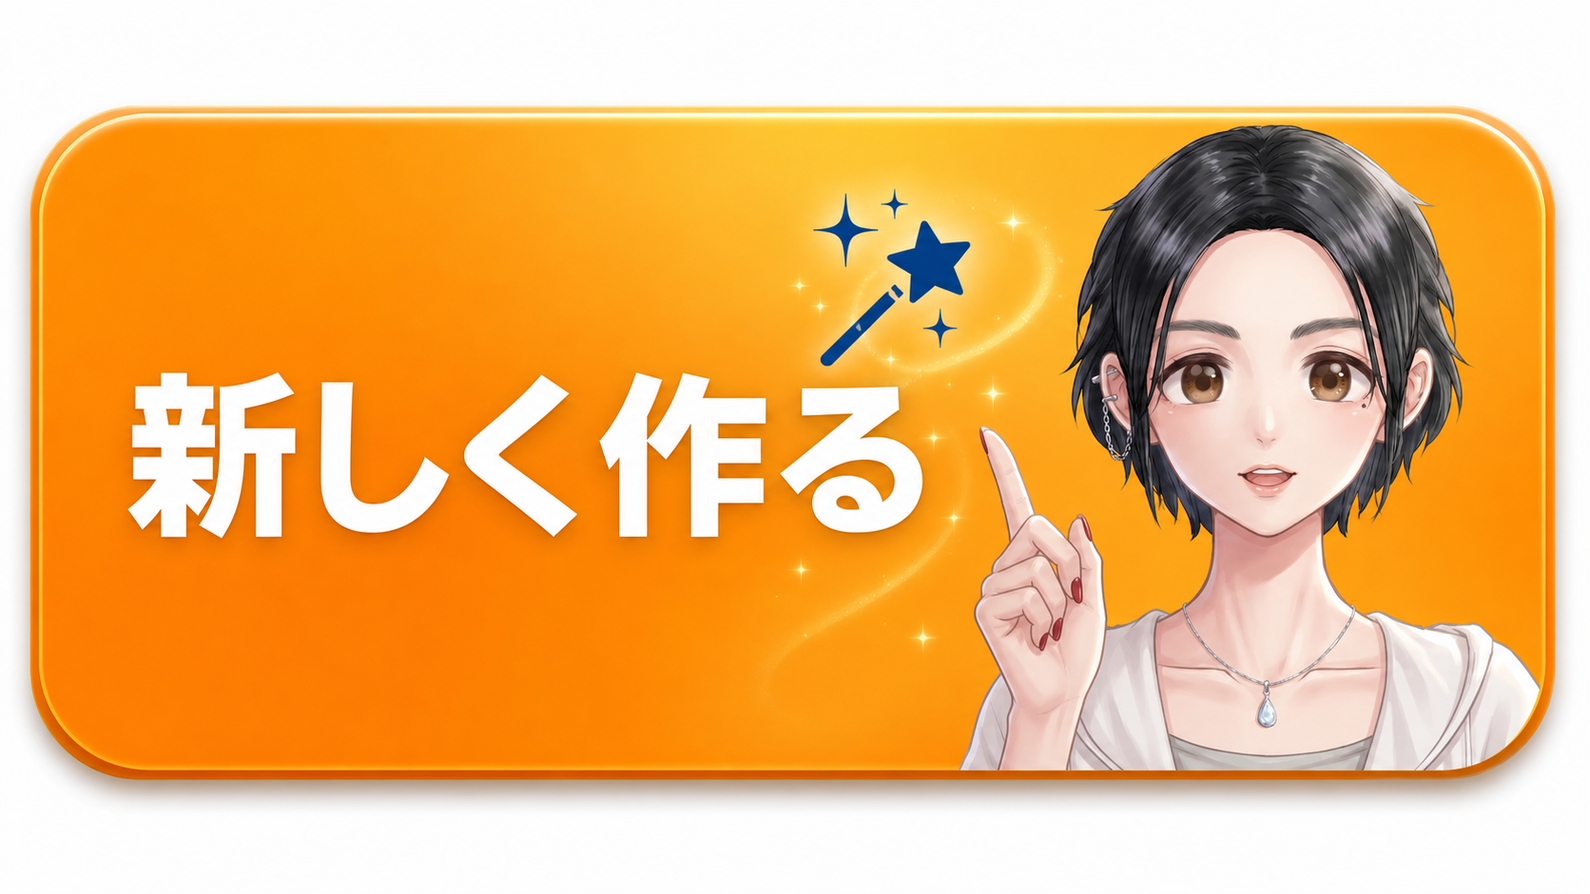
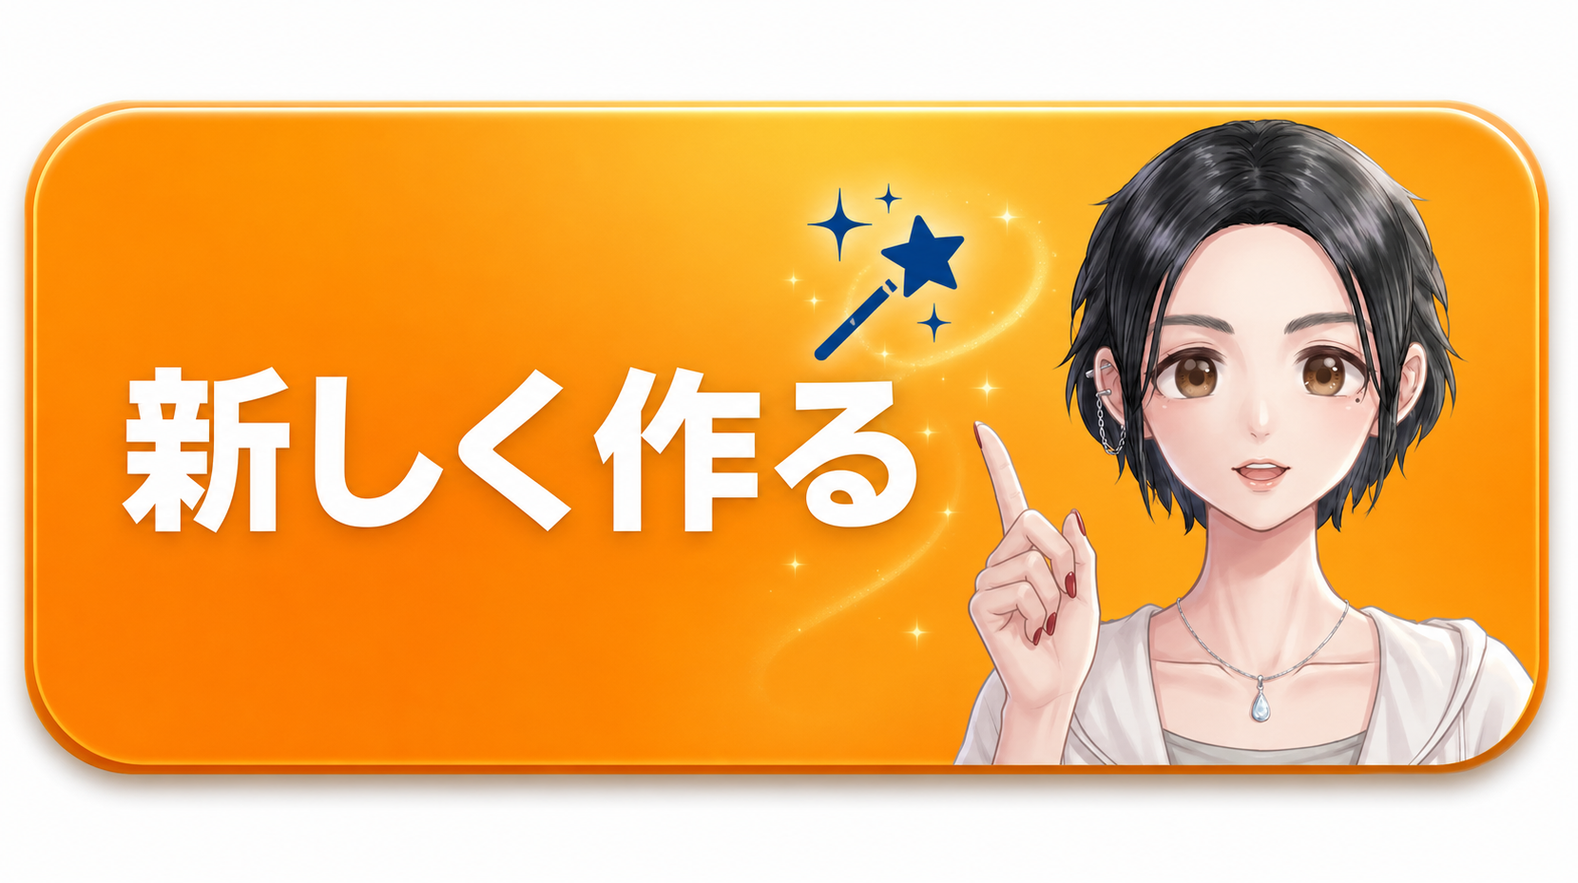
feat: スライドダッシュボードに改称。生成実況ヒーロー・プレースホルダー・バナー横並び・レスポンシブ改善・Codexライフサイクル修正

diff --git a/skills/tekion-slide-generator-v6/scripts/review_deck.py b/skills/tekion-slide-generator-v6/scripts/review_deck.py
@@ -31,7 +31,7 @@ import sys
 import threading
 
 sys.path.insert(0, os.path.dirname(os.path.abspath(__file__)))
-from manifest_utils import load_manifest, save_manifest, update_entry
+from manifest_utils import load_manifest, read_session_status, save_manifest, update_entry
 
 PAGE_TEMPLATE = """<!DOCTYPE html>
 <html lang="ja">
@@ -286,11 +286,51 @@ PAGE_TEMPLATE = """<!DOCTYPE html>
   footer.sites a:hover { color: var(--blue); text-decoration: underline; }
   footer.sites .sep { color: #c4ccd6; }
 
-  /* Ryoko バナーボタン（スタート画面） */
-  .choices.banner { grid-template-columns: 1fr; gap: 18px; max-width: 640px; margin: 0 auto; }
+  /* ステージ実況ヒーロー */
+  .stage-hero {
+    display: none; align-items: center; gap: 16px;
+    max-width: 720px; margin: 20px auto 0; padding: 20px 26px;
+    background: var(--paper); border: 1.5px solid #c7d9f5; border-radius: 14px;
+    box-shadow: 0 4px 16px #104f9e14;
+  }
+  .stage-hero.show { display: flex; }
+  .stage-hero .pulse {
+    width: 44px; height: 44px; border-radius: 50%; flex: 0 0 auto;
+    background: radial-gradient(circle at 35% 35%, #3d7fd9, var(--blue));
+    animation: heartbeat 1.6s ease-in-out infinite;
+  }
+  .stage-hero .stxt { display: flex; flex-direction: column; gap: 3px; }
+  .stage-hero .stitle { font-size: 16px; font-weight: 700; color: var(--blue); }
+  .stage-hero .sdetail { font-size: 12.5px; color: var(--sub); }
+  .stage-hero .sdots::after { content: ""; animation: dots 1.5s steps(4) infinite; }
+  @keyframes heartbeat { 0%,100% { transform: scale(1); opacity: 1; }
+                         50% { transform: scale(1.18); opacity: .75; } }
+  @keyframes dots { 0% { content: ""; } 25% { content: "."; } 50% { content: ".."; } 75% { content: "..."; } }
+
+  /* 生成待ちプレースホルダーカード */
+  .ph-frame { position: relative; aspect-ratio: 16 / 9; border-radius: 6px;
+              border: 1.5px dashed #c3cede; overflow: hidden;
+              background: linear-gradient(110deg, #eef2f8 35%, #f8fafd 50%, #eef2f8 65%);
+              background-size: 220% 100%; animation: shimmer 1.8s linear infinite; }
+  @keyframes shimmer { to { background-position-x: -220%; } }
+  .ph-frame .ph-label { position: absolute; inset: 0; display: flex; flex-direction: column;
+                        align-items: center; justify-content: center; gap: 8px;
+                        color: #9aa8bb; font-size: 13px; font-weight: 600; }
+  .ph-frame .ph-num { font-size: 34px; font-weight: 200; color: #c3cede; }
+  .proof.placeholder { border-style: dashed; box-shadow: none; }
+  .proof.placeholder .state { color: #9aa8bb; }
+  .rail .ph-thumb { aspect-ratio: 16 / 9; border-radius: 4px; border: 1.5px dashed #c3cede;
+                    background: #eef2f8; }
+  @media (prefers-reduced-motion: reduce) {
+    .ph-frame, .stage-hero .pulse { animation: none; }
+  }
+
+  /* Ryoko バナーボタン（スタート画面・横並び） */
+  .choices.banner { grid-template-columns: 1fr 1fr; gap: 20px; max-width: 900px; margin: 0 auto; }
+  @media (max-width: 760px) { .choices.banner { grid-template-columns: 1fr; } }
   .banner-btn { display: block; border: 0; padding: 0; background: none; cursor: pointer;
-                border-radius: 16px; overflow: hidden; width: 100%;
-                box-shadow: 0 4px 14px #0f254622; transition: transform .15s, box-shadow .15s; }
+                border-radius: 18px; overflow: hidden; width: 100%; line-height: 0;
+                box-shadow: 0 6px 18px #0f254626; transition: transform .15s, box-shadow .15s; }
   .banner-btn img { display: block; width: 100%; height: auto; }
   .banner-btn:hover { transform: translateY(-3px); box-shadow: 0 10px 28px #0f254633; }
   .banner-btn:active { transform: translateY(0); }
@@ -322,6 +362,15 @@ PAGE_TEMPLATE = """<!DOCTYPE html>
     article.proof:nth-child(n+4) { animation-delay: .15s; }
     @keyframes rise { from { opacity: 0; transform: translateY(8px); } }
   }
+  @media (max-width: 1280px) {
+    .wrap { grid-template-columns: 150px minmax(0, 1fr); }
+    main { padding: 20px 18px 60px; }
+    .proof .head { padding: 12px 16px 10px; }
+    .proof figure, .proof .body { padding-left: 16px; padding-right: 16px; }
+    .slip { margin: 12px 16px 16px; }
+    .proof .ord { font-size: 20px; }
+    .proof .body.with-versions { grid-template-columns: minmax(0,1fr) 190px; }
+  }
   @media (max-width: 1100px) {
     .proof .body.with-versions { grid-template-columns: 1fr; }
     aside.vtree { display: flex; gap: 12px; padding-left: 0; overflow-x: auto; }
@@ -343,7 +392,7 @@ PAGE_TEMPLATE = """<!DOCTYPE html>
 <header class="top">
   <div class="brand">
 __BRAND_TOP__
-    <h1>校正室<span class="session mono">__SESSION_NAME__</span></h1>
+    <h1>スライドダッシュボード<span class="session mono">__SESSION_NAME__</span></h1>
   </div>
   <span class="genprog mono" id="gen-progress" hidden></span>
   <div class="tally">
@@ -357,6 +406,14 @@ __BRAND_TOP__
 </header>
 
 <div class="banner" id="done-banner">✓ 送信しました — Claude が修正を開始します。このタブは閉じて構いません。</div>
+
+<div class="stage-hero" id="stage-hero">
+  <div class="pulse"></div>
+  <div class="stxt">
+    <span class="stitle"><span id="stage-title">準備中</span><span class="sdots"></span></span>
+    <span class="sdetail" id="stage-detail"></span>
+  </div>
+</div>
 
 <div class="wrap">
   <nav class="rail" aria-label="スライド索引">
@@ -398,9 +455,16 @@ function hasUserInput() {
   if (document.activeElement && document.activeElement.tagName === 'TEXTAREA') return true;
   return [...document.querySelectorAll('textarea[data-slide]')].some(t => t.value.trim());
 }
+const STAGE_LABELS = {
+  planning:  ['スライド構成を執筆中', 'Claude が内容を設計しています'],
+  prompting: ['画像プロンプトを生成中', 'デザイン指示を組み立てています'],
+  prompted:  ['画像生成の開始を待機中', 'まもなく並列生成が始まります'],
+  generating: ['スライドを生成中', ''],
+  attention: ['一部スライドが未完成', '再実行すると欠損分だけ回収されます'],
+};
 function updateGenProgress(st) {
   const el = document.getElementById('gen-progress');
-  const pending = st.counts.pending || 0;
+  const pending = (st.counts.pending || 0) + (st.counts.planned || 0);
   const failed = st.counts.failed || 0;
   const done = st.counts.validated || 0;
   if (pending > 0) {
@@ -411,6 +475,22 @@ function updateGenProgress(st) {
     el.textContent = '⚠ 未完成 ' + failed + '枚（再実行で回収されます）';
   } else {
     el.hidden = true;
+  }
+
+  // ステージヒーロー: 生成前の段階と「1枚もできていない生成中」で大きく実況する
+  const hero = document.getElementById('stage-hero');
+  const stage = (st.session && st.session.stage) || '';
+  const preStages = ['planning', 'prompting', 'prompted'];
+  const showHero = preStages.includes(stage) || (stage === 'generating' && done === 0 && st.total > 0)
+                   || (pending === 0 && failed > 0 && stage === 'attention');
+  if (showHero && STAGE_LABELS[stage]) {
+    document.getElementById('stage-title').textContent =
+      stage === 'generating' ? 'スライドを生成中（' + done + ' / ' + st.total + '）' : STAGE_LABELS[stage][0];
+    document.getElementById('stage-detail').textContent =
+      (st.session && st.session.detail) || STAGE_LABELS[stage][1];
+    hero.classList.add('show');
+  } else {
+    hero.classList.remove('show');
   }
 }
 async function pollStatus() {
@@ -635,6 +715,21 @@ __VTREE__
 
 RAIL_TEMPLATE = """    <a href="#p-__NAME__" data-ord="__ORD__"><span class="tag">__ORD__</span><img src="__CUR_SRC__" alt="__NAME__ サムネイル"></a>"""
 
+PLACEHOLDER_CARD_TEMPLATE = """    <article class="proof placeholder" id="p-__NAME__" data-slide="__NAME__">
+      <div class="head">
+        <span class="ord">__ORD__</span>
+        <span class="id mono">__NAME__</span>
+        <span class="state">__PH_STATE__</span>
+      </div>
+      <div class="body">
+        <div class="maincol">
+          <div class="ph-frame"><span class="ph-label"><span class="ph-num">__ORD__</span>__PH_STATE__</span></div>
+        </div>
+      </div>
+    </article>"""
+
+PLACEHOLDER_RAIL_TEMPLATE = """    <a href="#p-__NAME__" data-ord="__ORD__"><span class="tag">__ORD__</span><div class="ph-thumb"></div></a>"""
+
 
 def build_html(session_dir: str) -> str:
     manifest_path = os.path.join(session_dir, "manifest.json")
@@ -649,12 +744,26 @@ def build_html(session_dir: str) -> str:
                      key=lambda kv: (0 if "course_title" in kv[0] else 1, natural_key(kv[0])))
 
     cards, rail = [], []
+    rendered_total = 0
     ord_no = 0
     for base, entry in ordered:
         current = entry.get("current_image")
         if not current or not os.path.exists(current):
+            # 画像がまだ無いスライドはプレースホルダーで枠を出す（生成前から全体像が見える）
+            ord_no += 1
+            state = entry.get("state", "pending")
+            ph_state = {"failed": "再試行待ち", "planned": "生成待ち"}.get(state, "生成中")
+            subs = {"__NAME__": html.escape(base), "__ORD__": f"{ord_no:02d}",
+                    "__PH_STATE__": ph_state}
+            card, rail_item = PLACEHOLDER_CARD_TEMPLATE, PLACEHOLDER_RAIL_TEMPLATE
+            for k, v in subs.items():
+                card = card.replace(k, v)
+                rail_item = rail_item.replace(k, v)
+            cards.append(card)
+            rail.append(rail_item)
             continue
         ord_no += 1
+        rendered_total += 1
         versions = [v for v in (entry.get("versions") or [current]) if os.path.exists(v)]
         if current not in versions:
             versions.append(current)
@@ -754,9 +863,9 @@ def build_html(session_dir: str) -> str:
     for k, v in {
         "__BRAND_TOP__": brand_top,
         "__SITES_LOGO__": sites_logo,
-        "__TITLE__": html.escape(f"校正室 — {session_name}"),
+        "__TITLE__": html.escape(f"スライドダッシュボード — {session_name}"),
         "__SESSION_NAME__": html.escape(session_name),
-        "__COUNT__": str(len(cards)),
+        "__COUNT__": str(rendered_total),
         "__RAIL__": "\n".join(rail),
         "__CARDS__": landing if landing else "\n".join(cards),
         "__SESSION_DIR_JSON__": json.dumps(os.path.abspath(session_dir), ensure_ascii=False),
@@ -828,7 +937,8 @@ def serve(session_dir: str, timeout: int) -> int:
                     items.append({"base": base, "state": state,
                                   "versions": len(e.get("versions") or [])})
                 items.sort(key=lambda x: x["base"])
-                self._respond_json({"total": len(items), "counts": counts, "slides": items})
+                self._respond_json({"total": len(items), "counts": counts, "slides": items,
+                                    "session": read_session_status(session_dir)})
             elif self.path in ("/export/pptx", "/export/pdf"):
                 kind = self.path.rsplit("/", 1)[1]
                 session_name = os.path.basename(session_dir)

diff --git a/skills/tekion-slide-generator-v6/scripts/generate_prompts_from_json.py b/skills/tekion-slide-generator-v6/scripts/generate_prompts_from_json.py
@@ -383,6 +383,12 @@ def main():
     # 出力ディレクトリ作成
     output_dir.mkdir(parents=True, exist_ok=True)
 
+    # ダッシュボード実況: プロンプト生成ステージ
+    import sys as _sys
+    _sys.path.insert(0, str(Path(__file__).parent))
+    from manifest_utils import set_session_status
+    set_session_status(str(session_dir), "prompting", "画像プロンプトを生成中")
+
     # テンプレートパス設定（スタイル別 + --template-path オーバーライド）
     script_dir = Path(__file__).parent
     skill_dir = script_dir.parent
@@ -513,6 +519,22 @@ def main():
 
     if failed_count > 0:
         sys.exit(1)
+
+    # ダッシュボード実況: 全スライドをプレースホルダー登録（生成前から枠が見える）
+    try:
+        from manifest_utils import load_manifest, save_manifest, get_entry, update_entry
+        manifest_path = session_dir / "manifest.json"
+        manifest = load_manifest(str(manifest_path))
+        for slide in slides:
+            base = f"{extract_file_basename(slide.get('source_file', ''))}_{slide.get('_file_slide_number', 1):02d}"
+            entry = get_entry(manifest, base)
+            if entry.get("state") != "validated":
+                update_entry(manifest, base, state="planned")
+        save_manifest(str(manifest_path), manifest)
+        set_session_status(str(session_dir), "prompted",
+                           f"プロンプト生成完了。画像生成の開始を待機中", total=len(slides))
+    except Exception as e:
+        print(f"⚠  placeholder registration skipped: {e}")
 
     print("\n✓ All prompts generated successfully!")
 

diff --git a/skills/tekion-slide-generator-v6/scripts/generate_slides_parallel.py b/skills/tekion-slide-generator-v6/scripts/generate_slides_parallel.py
@@ -32,7 +32,7 @@ from concurrent.futures import ThreadPoolExecutor, as_completed
 sys.path.insert(0, os.path.dirname(os.path.abspath(__file__)))
 from manifest_utils import (
     classify_error, get_entry, load_manifest, prompt_hash, save_manifest,
-    summarize, update_entry, validate_image,
+    set_session_status, summarize, update_entry, validate_image,
 )
 
 PARALLEL_CAP_DEFAULT = 20  # 実測: 2K・並列20で throttle なし（20枚/68秒）
@@ -419,6 +419,9 @@ def main():
     gate = AdaptiveGate(initial=initial_parallel, cap=args.parallel_cap)
     abort_event = threading.Event()
     start_time = time.time()
+    session_dir_for_status = os.path.dirname(manifest_path)
+    set_session_status(session_dir_for_status, "generating",
+                       f"{len(tasks)}枚を並列生成中", total=len(prompt_files))
 
     # ---- メインパス ----
     failed = run_pass(tasks, args, retry_script, per_slide_timeout, gate, abort_event,
@@ -467,6 +470,10 @@ def main():
         print("\n❌ 認証エラーで中断しました。`codex login` で再ログイン後、"
               "同じコマンドを再実行してください（生成済みスライドは resume でスキップされます）。")
         sys.exit(2)
+
+    set_session_status(session_dir_for_status,
+                       "attention" if failed or abort_event.is_set() else "done",
+                       "一部スライドが未完成（再実行で回収されます）" if failed else "全スライド生成完了")
 
     if failed:
         print("\n⚠  未完成のスライドがあります:")

diff --git a/skills/tekion-slide-generator-v6/scripts/manifest_utils.py b/skills/tekion-slide-generator-v6/scripts/manifest_utils.py
@@ -192,6 +192,31 @@ def collect_current_images(manifest_path: str, allow_partial: bool = False):
     return [img for _, img in files], incomplete
 
 
+def set_session_status(session_dir: str, stage: str, detail: str = "", total=None) -> None:
+    """セッションの現在ステージを書き出す（ダッシュボードの実況表示が読む）。
+
+    stage: planning / prompting / generating / done / attention
+    """
+    status = {"stage": stage, "detail": detail, "updated_at": now_iso()}
+    if total is not None:
+        status["total"] = total
+    path = os.path.join(session_dir, "session_status.json")
+    try:
+        with open(path, "w", encoding="utf-8") as f:
+            json.dump(status, f, ensure_ascii=False)
+    except OSError:
+        pass  # 実況はベストエフォート。本処理を止めない
+
+
+def read_session_status(session_dir: str) -> dict:
+    path = os.path.join(session_dir, "session_status.json")
+    try:
+        with open(path, "r", encoding="utf-8") as f:
+            return json.load(f)
+    except (OSError, json.JSONDecodeError):
+        return {}
+
+
 def summarize(manifest: dict) -> dict:
     """状態別のスライド数を集計する。"""
     counts: dict[str, int] = {}

diff --git a/skills/tekion-slide-generator-v6/SKILL.md b/skills/tekion-slide-generator-v6/SKILL.md
@@ -1,6 +1,6 @@
 ---
 name: tekion-slide-generator-v6
-description: "TEKION Slide Generator v6 — Markdown/テキストから日本語プレゼンスライド（16:9）を生成し PPTX/PDF まで書き出す。ユーザーが『スライドを作って』『プレゼン資料/提案書/企画書/ピッチデッキにして』『この資料をデッキ化』『登壇用の資料』のようにスライド作成を求めたら、ツール名を明示しなくても使うこと。既存の PPTX/PDF を『このパワポを直して』『既存の資料を修正して』と言われた場合もこのスキルで取り込んで改修する。起点はブラウザの『校正室』: 生成の実況、スライド毎の赤入れ→ワンクリック修正依頼、バージョン比較（選択=確定）、既存デッキのドラッグ&ドロップ取り込み、PPTX/PDF ダウンロードまで1画面で完結。核となる機能: (1) 枚数ぶんの一斉並列生成 + レート制限時の自動減速、(2) manifest + 検証スイープ + resume で『N枚頼んだらN枚返る』ゼロ欠損保証、(3) 差分編集・赤ペン編集・ロールバック。画像生成は Codex 内蔵 gpt-image-2（ChatGPT/Codex サブスク枠、API 従量課金なし）。"
+description: "TEKION Slide Generator v6 — Markdown/テキストから日本語プレゼンスライド（16:9）を生成し PPTX/PDF まで書き出す。ユーザーが『スライドを作って』『プレゼン資料/提案書/企画書/ピッチデッキにして』『この資料をデッキ化』『登壇用の資料』のようにスライド作成を求めたら、ツール名を明示しなくても使うこと。既存の PPTX/PDF を『このパワポを直して』『既存の資料を修正して』と言われた場合もこのスキルで取り込んで改修する。起点はブラウザの『スライドダッシュボード』: 生成の実況、スライド毎の赤入れ→ワンクリック修正依頼、バージョン比較（選択=確定）、既存デッキのドラッグ&ドロップ取り込み、PPTX/PDF ダウンロードまで1画面で完結。核となる機能: (1) 枚数ぶんの一斉並列生成 + レート制限時の自動減速、(2) manifest + 検証スイープ + resume で『N枚頼んだらN枚返る』ゼロ欠損保証、(3) 差分編集・赤ペン編集・ロールバック。画像生成は Codex 内蔵 gpt-image-2（ChatGPT/Codex サブスク枠、API 従量課金なし）。"
 ---
 
 # TEKION Slide Generator v6 — 「全枚数、確実に、同じ顔で。」
@@ -73,7 +73,7 @@ python3 -c "import PIL, pptx, requests, jinja2; print('OK')" 2>/dev/null || bash
 
 未ログインなら **STOP**（`codex` を一度起動してログイン）。
 
-## Phase 1: セッション準備 + 校正室の起動（ここが起点）
+## Phase 1: セッション準備 + スライドダッシュボードの起動（ここが起点）
 
 ```bash
 TIMESTAMP=$(date +%Y-%m-%d_%H%M%S) && OUTPUT_DIR="[指定された出力先]" && SESSION_DIR="${OUTPUT_DIR}/slides_output/${TIMESTAMP}" && mkdir -p "${SESSION_DIR}/json" "${SESSION_DIR}/prompts" "${SESSION_DIR}/images"
@@ -81,12 +81,17 @@ TIMESTAMP=$(date +%Y-%m-%d_%H%M%S) && OUTPUT_DIR="[指定された出力先]" &&
 
 （秒まで含めることで同時起動セッションの衝突を防ぐ）
 
-続けて**校正室をバックグラウンドで起動**する。`--serve` は修正指示を受信するまで戻らない
-ブロッキングプロセスなので、必ず自分の環境のバックグラウンド実行手段を使う:
+続けて**スライドダッシュボードを起動**する。`--serve` はユーザーが「修正を依頼する」を
+押すまで戻らないブロッキングプロセス。エージェントごとの正しい起動方法:
 
-- Claude Code: Bash ツールの `run_in_background: true` で実行（完了通知 = 修正依頼の受信）
-- Codex ほか: `nohup ${PYTHON} ... --serve > "${SESSION_DIR}/review_server.log" 2>&1 &` で起動し、
-  修正依頼は `${SESSION_DIR}/slide_feedback.json` の出現をポーリングして検知する
+- **Claude Code**: Bash ツールの `run_in_background: true` で実行。プロセスの完了通知が
+  「修正依頼の受信」を意味するので、通知が来たら `slide_feedback.json` を読んで差分編集へ
+- **Codex ほか**: 生成が終わってレビュー待ちになったら、**そのまま前面で実行してよい**
+  （ユーザーが送信するとコマンドが exit 0 で戻るので、続けて `slide_feedback.json` を読む。
+  exit 2 はタイムアウト）。ターンを終える必要がある場合は `nohup ... &` で起動したままにし、
+  次のユーザー発話時に必ず `${SESSION_DIR}/slide_feedback.json` の有無を確認して処理する。
+  **サーバプロセスが死ぬと送信ボタンが機能しなくなる**ため、ターン終了時にサーバを
+  道連れにしない（nohup 必須）
 
 ```bash
 ${PYTHON} "${SKILL_DIR}/scripts/review_deck.py" --session-dir "${SESSION_DIR}" --serve
@@ -95,14 +100,20 @@ ${PYTHON} "${SKILL_DIR}/scripts/review_deck.py" --session-dir "${SESSION_DIR}" -
 ブラウザにスタート画面が開き、ユーザーは2つの入り口を選べる:
 
 - **既存デッキを読み込む**: ユーザーが PPTX/PDF/画像をドロップ → 1枚ずつのスライドに分解されて
-  校正室に並ぶ。この場合 Phase 2〜7 は不要で、そのまま Phase 8（赤入れ → 差分編集）に入る
-- **新しく作る**: このまま Phase 2 以降を進める。**Phase 7 の生成進捗は校正室に実況される**
+  スライドダッシュボードに並ぶ。この場合 Phase 2〜7 は不要で、そのまま Phase 8（赤入れ → 差分編集）に入る
+- **新しく作る**: このまま Phase 2 以降を進める。**Phase 7 の生成進捗はスライドダッシュボードに実況される**
   （「生成中 n / N」表示、完成したスライドから順に画面に現れる）
 
-校正室のプロセスはユーザーが修正指示を送信すると完了する。完了通知を受けたら
+スライドダッシュボードのプロセスはユーザーが修正指示を送信すると完了する。完了通知を受けたら
 `slide_feedback.json` を読み、Phase 8 の差分編集に入る（生成前・生成中に届くこともある）。
 
 ## Phase 2: デザインガイドライン作成
+
+まずダッシュボードに現在ステージを知らせる（実況表示に出る）:
+
+```bash
+echo '{"stage":"planning","detail":"デザインとスライド構成を執筆中"}' > "${SESSION_DIR}/session_status.json"
+```
 
 `${SKILL_DIR}/references/design_guidelines_template.md` をベースに `${SESSION_DIR}/design_guidelines.md` を作る。
 
@@ -270,7 +281,7 @@ ${PYTHON} "${SKILL_DIR}/scripts/generate_slides_parallel.py" \
 
 ## Phase 8: レビュー → 差分編集
 
-デッキをブラウザレビューア「校正室」で開き、ユーザーにスライド単位でフィードバックをもらう。
+デッキをブラウザレビューア「スライドダッシュボード」で開き、ユーザーにスライド単位でフィードバックをもらう。
 **バックグラウンドで実行する**（`run_in_background: true`）:
 
 ```bash
@@ -334,7 +345,7 @@ ${PYTHON} "${SKILL_DIR}/scripts/export_to_pdf.py" \
 ## 既存デッキの改修（PPTX / PDF / 画像の取り込み）
 
 既存デッキを取り込んで、生成デッキと同じように赤入れ → 差分編集 → export で改修できる。
-入り口は2つ: **校正室へのドラッグ&ドロップ / 「＋ 読み込み」ボタン**（推奨）、または CLI:
+入り口は2つ: **スライドダッシュボードへのドラッグ&ドロップ / 「＋ 読み込み」ボタン**（推奨）、または CLI:
 
 ```bash
 ${PYTHON} "${SKILL_DIR}/scripts/import_deck.py" \
